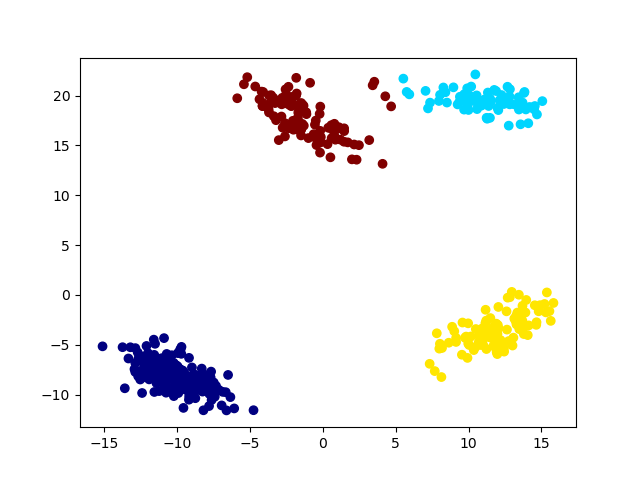
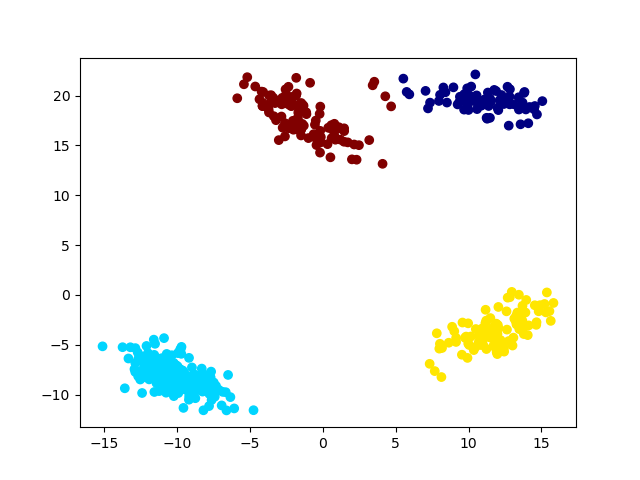
Update Q5 code

Changed region(s): [[0.1562, 0.6875, 0.4062, 0.875], [0.625, 0.125, 0.875, 0.2812]]

diff --git a/a2/code/main.py b/a2/code/main.py
@@ -313,20 +313,20 @@ def q5():
 def q5_1():
     X = load_dataset("clusterData.pkl")["X"]
     
-    kmeansModels = []
-    kmeansModelErrors = []
+    best_kmeansModel = None
+    best_kmeansModelError = np.inf
+
     for i in range(50):
         model = Kmeans(k=4)
-        error = model.fit(X)
+        model.fit(X)
         y = model.predict(X)
-        model.error(X, y, model.means)
-        kmeansModels += [model]
-        kmeansModelErrors += [error]
+        error = model.error(X, y, model.means)
+        if(error < best_kmeansModelError):
+            best_kmeansModelError = error
+            best_kmeansModel = model
 
-    final_model = kmeansModels[np.argmin(kmeansModelErrors)]
-    y = final_model.predict(X)
-    final_error = np.min(kmeansModelErrors)
-    print('finalKmeansClassifier error:', final_error)
+    y = best_kmeansModel.predict(X)
+    print('finalKmeansClassifier error:', best_kmeansModelError)
 
     plt.scatter(X[:, 0], X[:, 1], c=y, cmap="jet")
     fname = Path("..", "figs",  "q5_1_finalKmeansClassifier.pdf")
@@ -342,14 +342,15 @@ def q5_2():
     minError_k = []
 
     for k in range(1,11):
-        kmeansModelErrors = []
+        best_kmeansModelError = np.inf
         for i in range(50):
             model = Kmeans(k=k)
             model.fit(X)
             y = model.predict(X)
             error = model.error(X, y, model.means)
-            kmeansModelErrors += [error]
-        minError_k += [np.min(kmeansModelErrors)]
+            if(error < best_kmeansModelError):
+                best_kmeansModelError = error
+        minError_k += [best_kmeansModelError]
 
     plt.figure() 
     plt.plot(range(1,11), minError_k, label = 'Min Error')
